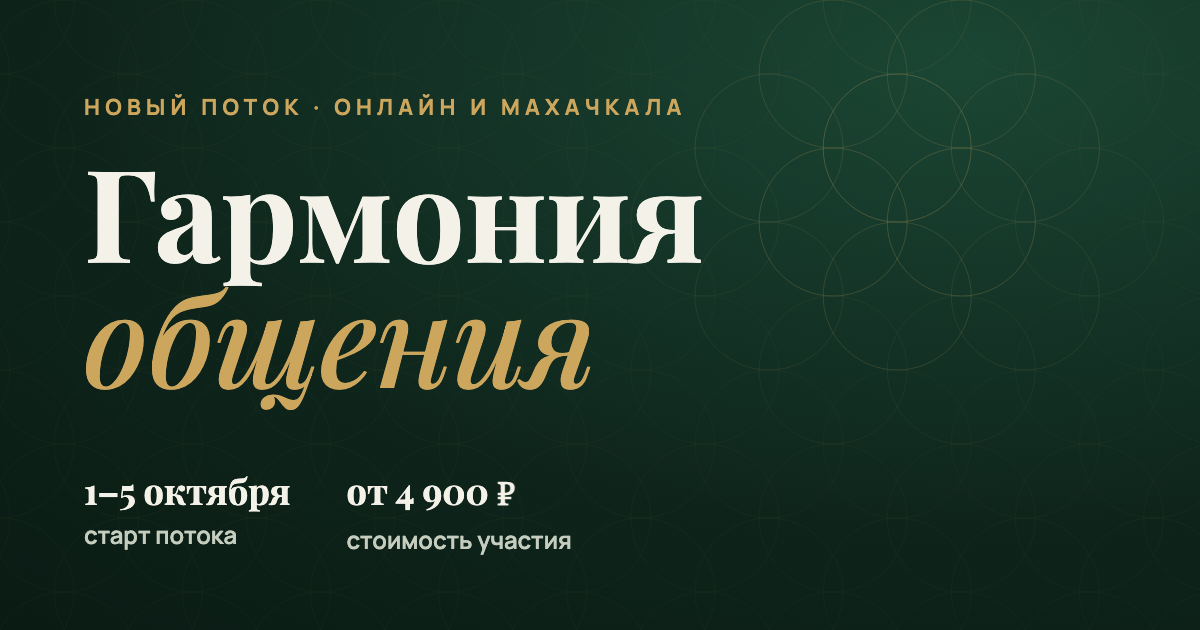
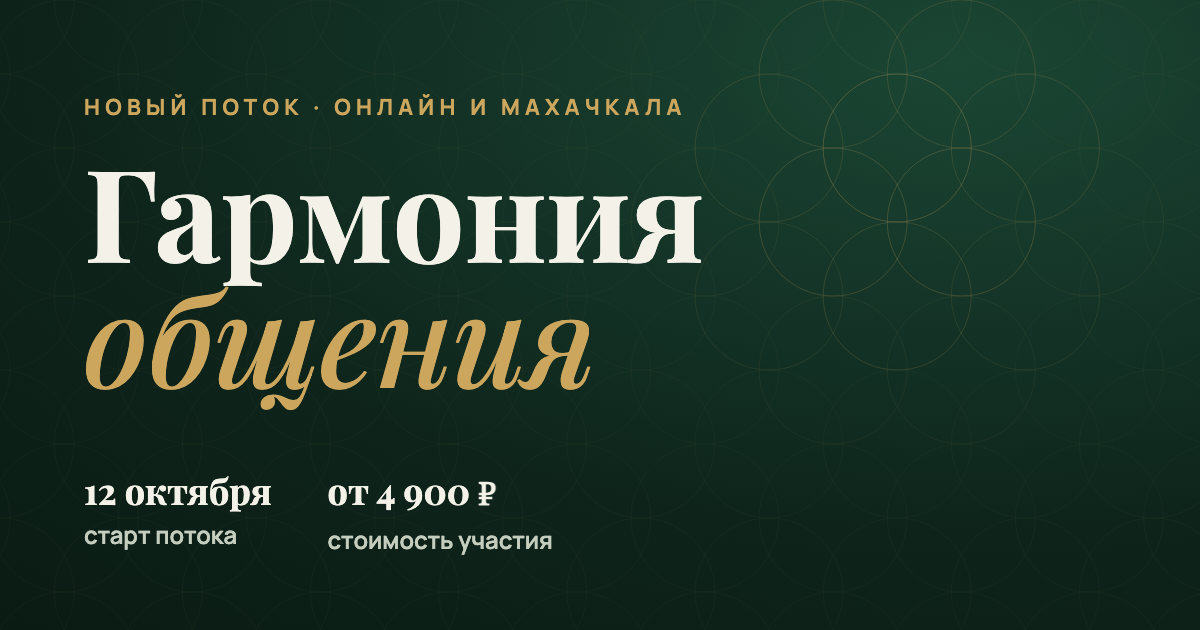
Старт потока — 12 октября

Changed region(s): [[0.0617, 0.754, 0.2467, 0.8143], [0.2775, 0.754, 0.4317, 0.8143], [0.2775, 0.8444, 0.4933, 0.8746]]

diff --git a/index.html b/index.html
@@ -4,7 +4,7 @@
 <meta charset="utf-8">
 <meta name="viewport" content="width=device-width, initial-scale=1, viewport-fit=cover">
 <title>Гармония общения</title>
-<meta name="description" content="Поток «Гармония общения»: как мужчине и женщине услышать друг друга и построить союз, в котором вы одна команда. Старт 1–5 октября. Онлайн и офлайн в Махачкале.">
+<meta name="description" content="Поток «Гармония общения»: как мужчине и женщине услышать друг друга и построить союз, в котором вы одна команда. Старт 12 октября. Онлайн и офлайн в Махачкале.">
 <meta name="theme-color" content="#0E241B">
 
 <!-- Превью ссылки в Telegram / WhatsApp / соцсетях -->
@@ -12,7 +12,7 @@
 <meta property="og:locale" content="ru_RU">
 <meta property="og:url" content="https://batal755.github.io/garmonia/">
 <meta property="og:title" content="Гармония общения — новый поток">
-<meta property="og:description" content="Как мужчине и женщине снова услышать друг друга. Старт 1–5 октября. Четыре тарифа: от 4 900 ₽ до персональной работы с наставником.">
+<meta property="og:description" content="Как мужчине и женщине снова услышать друг друга. Старт 12 октября. Четыре тарифа: от 4 900 ₽ до персональной работы с наставником.">
 <meta property="og:image" content="https://batal755.github.io/garmonia/og-image.png">
 <meta property="og:image:width" content="1200">
 <meta property="og:image:height" content="630">
@@ -393,7 +393,7 @@
 <section class="hero" id="top">
   <canvas id="weave" aria-hidden="true"></canvas>
   <div class="wrap">
-    <span class="eyebrow">Новый поток · старт 1–5 октября</span>
+    <span class="eyebrow">Новый поток · старт 12 октября</span>
     <h1>Гармония<br><em>общения</em></h1>
     <p class="hero-sub">Курс о том, как перестать бороться друг с другом, сохранить близость даже в разногласиях и построить отношения, в которых хорошо обоим.</p>
     <p class="hero-hook">Порой нас не слышат и не ценят по нашей вине…</p>
@@ -402,7 +402,7 @@
       <a href="#tarify" class="btn btn-ghost">Тарифы и цены</a>
     </div>
     <div class="hero-meta">
-      <div><b>1–5 октября</b><span>Старт потока</span></div>
+      <div><b>12 октября</b><span>Старт потока</span></div>
       <div><b>Онлайн и Махачкала</b><span>Четыре тарифа</span></div>
       <div><b>от 4 900 ₽</b><span>Стоимость участия</span></div>
     </div>
@@ -617,7 +617,7 @@
       <span class="eyebrow reveal">Тарифы участия</span>
       <h2 class="h2 reveal">Как вам удобнее обучаться?</h2>
       <p class="sub reveal d1" style="margin-inline:auto;max-width:52ch">Выберите комфортную глубину прохождения программы — от самостоятельного изучения до персональной работы с наставником курса.</p>
-      <span class="start-badge reveal d1"><i></i>Старт потока — 1–5 октября</span>
+      <span class="start-badge reveal d1"><i></i>Старт потока — 12 октября</span>
     </div>
 
     <div class="plans">
@@ -712,7 +712,7 @@
         <span class="eyebrow">Набор открыт</span>
         <h2>Займите место<br>на <em>новом потоке</em></h2>
         <div class="facts">
-          <div><span>Старт</span><b>1–5 октября</b></div>
+          <div><span>Старт</span><b>12 октября</b></div>
           <div><span>Самостоятельный</span><b>4 900 ₽</b></div>
           <div><span>Практика</span><b>9 900 ₽</b></div>
           <div><span>Погружение</span><b>14 900 ₽</b></div>
@@ -735,7 +735,7 @@
     <div class="reveal d1" style="margin-top:24px">
       <details class="qa">
         <summary>Когда начинается поток?<span class="ic" aria-hidden="true"></span></summary>
-        <p class="ans">Старт — с 1 по 5 октября.</p>
+        <p class="ans">Старт — 12 октября.</p>
       </details>
       <details class="qa">
         <summary>Чем отличаются тарифы?<span class="ic" aria-hidden="true"></span></summary>
@@ -772,7 +772,7 @@
     <div class="grid">
       <div>
         <div class="brandmark">Гармония общения</div>
-        <p class="fine">Новый поток · старт 1–5 октября</p>
+        <p class="fine">Новый поток · старт 12 октября</p>
       </div>
       <div>
         <a href="https://t.me/fate_hacking_bot?start=garmonia" target="_blank" rel="noopener">Записаться на поток →</a>
@@ -784,7 +784,7 @@
 
 <!-- мобильная панель записи -->
 <div class="mbar" id="mbar">
-  <div class="t"><b>от 4 900 ₽</b>Старт 1–5 октября</div>
+  <div class="t"><b>от 4 900 ₽</b>Старт 12 октября</div>
   <a href="https://t.me/fate_hacking_bot?start=garmonia" target="_blank" rel="noopener" class="btn-nav">Записаться</a>
 </div>
 
